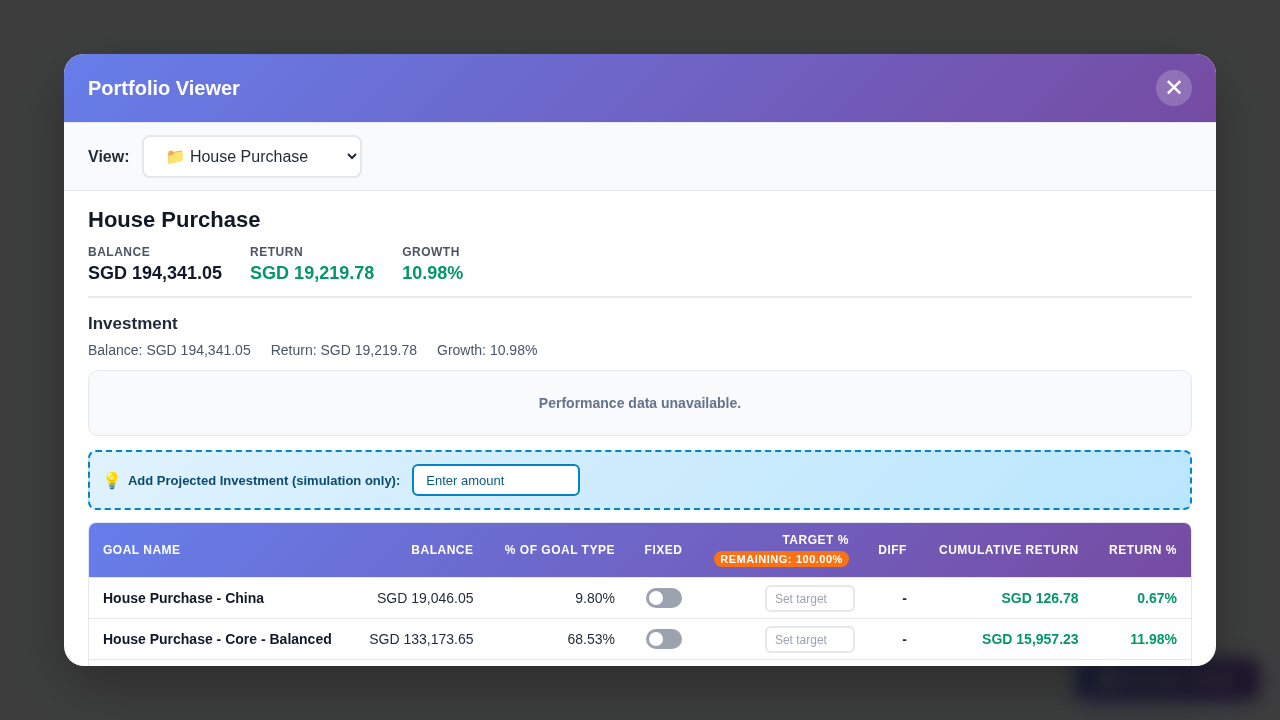
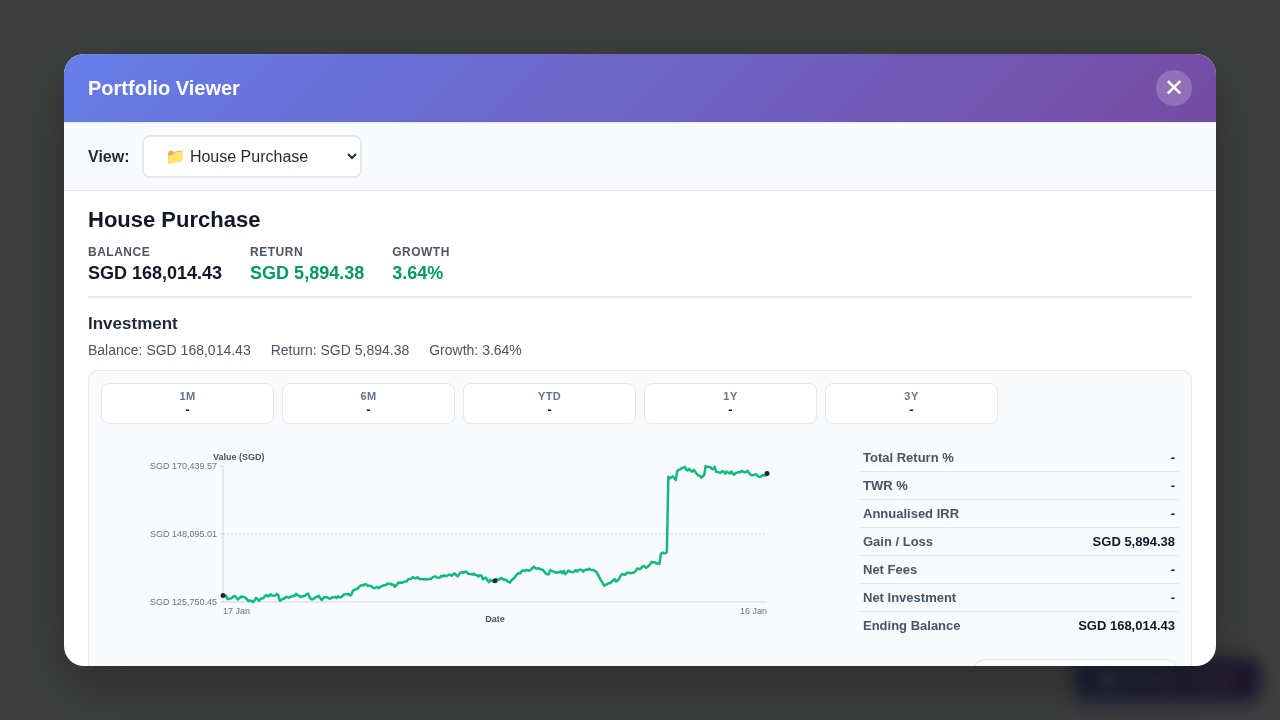
Fix cache fallback for performance data in demo mode and update screenshots

diff --git a/tampermonkey/goal_portfolio_viewer.user.js b/tampermonkey/goal_portfolio_viewer.user.js
@@ -1771,7 +1771,7 @@
         return headers;
     }
 
-    function readPerformanceCache(goalId) {
+    function readPerformanceCache(goalId, ignoreFreshness = false) {
         const key = getPerformanceCacheKey(goalId);
         const parsed = Storage.readJson(
             key,
@@ -1785,7 +1785,7 @@
         if (!parsed) {
             return null;
         }
-        if (!isCacheFresh(parsed.fetchedAt, PERFORMANCE_CACHE_MAX_AGE_MS)) {
+        if (!ignoreFreshness && !isCacheFresh(parsed.fetchedAt, PERFORMANCE_CACHE_MAX_AGE_MS)) {
             Storage.remove(key, 'Error deleting stale performance cache');
             return null;
         }
@@ -1803,8 +1803,8 @@
     }
     testExports.writePerformanceCache = writePerformanceCache;
 
-    function getCachedPerformanceResponse(goalId) {
-        const cached = readPerformanceCache(goalId);
+    function getCachedPerformanceResponse(goalId, ignoreFreshness = false) {
+        const cached = readPerformanceCache(goalId, ignoreFreshness);
         if (!cached) {
             return null;
         }
@@ -1872,6 +1872,13 @@
                 return normalized;
             } catch (error) {
                 console.warn('[Goal Portfolio Viewer] Performance fetch failed:', error);
+                // Fall back to cached data (ignore freshness) when fetch fails
+                const cached = getCachedPerformanceResponse(goalId, true);
+                if (cached) {
+                    logDebug('[Goal Portfolio Viewer] Using cached performance data for goal:', { goalId });
+                    state.performance.goalData[goalId] = cached;
+                    return cached;
+                }
                 return null;
             }
         });

diff --git a/demo/demo-clean.html b/demo/demo-clean.html
@@ -60,8 +60,8 @@
                         const tsKey = `gpv_performance_${goalId}`;
                         const tsData = mockData.performanceTimeSeries[goalId];
                         GM_setValue(tsKey, JSON.stringify({
-                            data: tsData,
-                            timestamp: Date.now()
+                            fetchedAt: Date.now(),
+                            response: tsData
                         }));
                     });
                     console.log('[Demo] Performance time-series data loaded for', Object.keys(mockData.performanceTimeSeries).length, 'goals');

diff --git a/demo/DEMO_GENERATION_PLAN.md b/demo/DEMO_GENERATION_PLAN.md
@@ -11,6 +11,39 @@ The demo generation system creates realistic mock data including:
 - Time-series performance data with realistic market fluctuations
 - Contribution events (simulating portfolio additions)
 - Target percentages for allocation tracking
+- **Cache-based performance data loading** (no external API calls required)
+
+## Demo Mode Architecture
+
+### Performance Data Caching
+
+The demo uses a client-side caching mechanism to avoid external API dependencies:
+
+1. **Data Storage**: Mock performance data is stored in browser storage with key format `gpv_performance_${goalId}`
+2. **Storage Format**:
+   ```javascript
+   {
+     fetchedAt: Date.now(),
+     response: {
+       timeSeries: { data: [...] },
+       returnsTable: {...},
+       totalCumulativeReturnPercent: ...,
+       totalCumulativeReturnAmount: ...
+     }
+   }
+   ```
+3. **Cache Fallback**: When BFF endpoint is unavailable (blocked in demo), the userscript automatically falls back to cached data
+4. **Freshness Check**: Cache is bypassed on fetch failure to ensure demo works even with stale data
+
+### How It Works
+
+1. `demo-clean.html` loads `mock-data.json`
+2. For each goal, performance time-series is stored via `GM_setValue()`
+3. Userscript attempts to fetch from BFF endpoint (fails in demo)
+4. On fetch failure, userscript checks cache with `ignoreFreshness=true`
+5. Cached data is used to render performance charts
+
+This ensures the demo works completely offline without any external dependencies.
 
 ## Bucket Configurations
 
